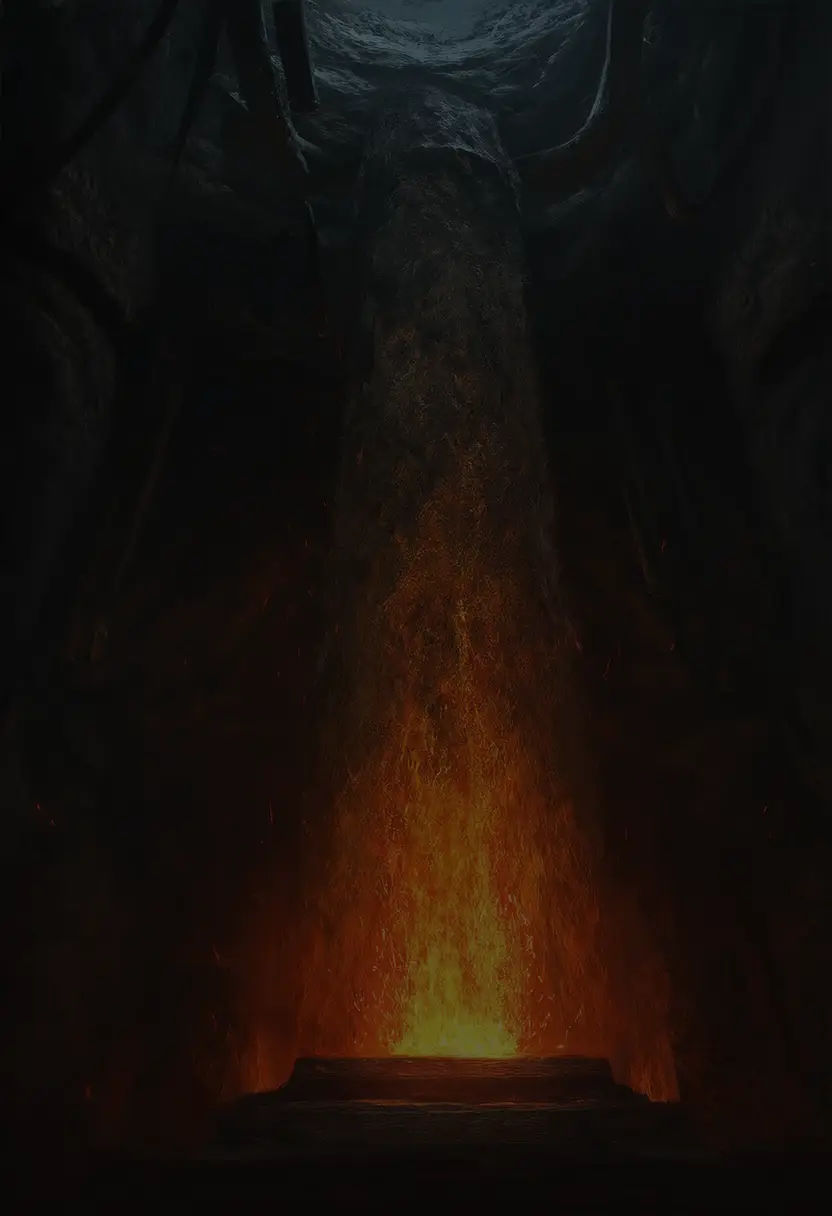
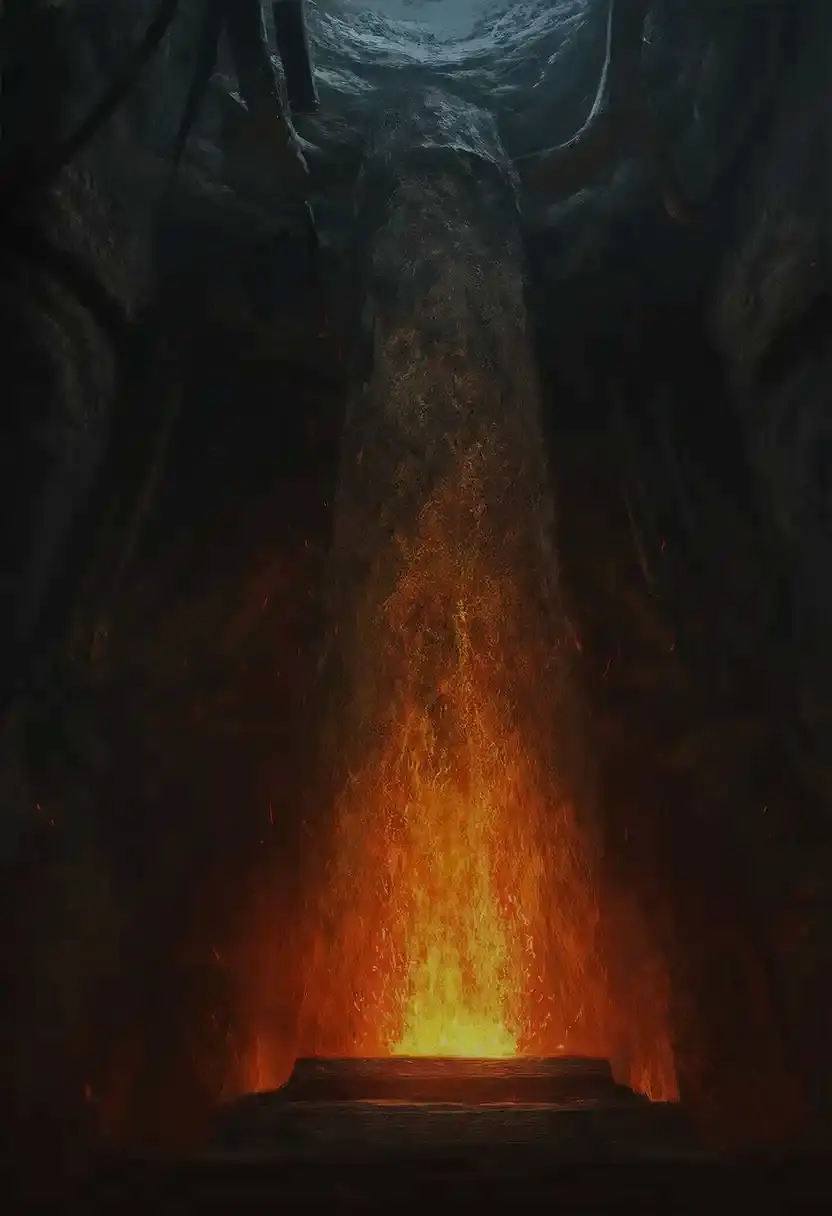
戦闘画面を透かし、二重に暗くしていたのをやめる
実機（Android Chrome）の画面で2点。

## 戦闘画面がフィールドの色で塗りつぶされていた

.battle が不透明なグラデーションで画面いっぱいを覆っていた。
枠を細くするのではなく、透明度で解く（0.34）。場所ごとの色は残る。
併せて、戦闘に入るときにその場所の絵を敷くようにした。

  戦闘画面で絵が見える割合  0% → 66%

残る battle-log は文字がいちばん密なので濃いまま残す。

## 絵と膜で二重に暗くしていた

画像を輝度0.24まで落としたうえに、表示側で膜を38〜82%かけていた。
実機で「ほぼ視認できない」となるのは当然だった。

  画像の狙い  0.24 → 0.42
  膜          0.38〜0.82 → 0.22〜0.58

make_backdrop.py は「落とす」だけだったので、暗い絵はそのまま残っていた。
上下どちらにも揃うようにして、17枚すべてを 0.42 に合わせ直した。

## 画面全体を暗くするのをやめ、パネルだけ濃くする

明るくすると当然、文字が読みにくくなる。全体で両立させようとすると
どちらも中途半端になるので、役割で分けた。

  絵を見せる場所（舞台・余白）… 膜だけ。明るい
  文字を読ませる場所（パネル）… 0.42 → 0.62 に濃く

実測: 17枚すべてで本文 7.1:1 以上・補助 4.9:1 以上（基準 4.5:1）。
パネルの無いところの明るさは平均 0.226 で、以前の 0.025 から大きく上がった。

screen-build だけは鋭い輝点があり上位2%の判定をすり抜けるので、
個別に 0.72 倍している。

検証: test/index.html 578/578。17枚のコントラストと、
戦闘画面での被覆率を実測。

Changed region(s): [[0.25, 0.2812, 0.8438, 0.9375], [0.3125, 0.0, 0.75, 0.1562], [0.3438, 0.0938, 0.375, 0.125]]

diff --git a/styles.css b/styles.css
@@ -2493,12 +2493,15 @@ body.has-backdrop #backdrop { display: block; }
 /* 膜。全体を均す役で、これ単体で読ませるほど濃くはしない。
    濃くしすぎると絵が沈み、何のために置いたのか分からなくなる。 */
 #backdrop::after {
+  /* 実機で「ほぼ視認できない」という報告を受けて薄くした。
+     画像の側も 0.24 → 0.42 に上げてあり、以前は **二重に暗く** していた。
+     この濃さで、パネル越しの本文コントラストは 7.0:1（基準 4.5:1）。 */
   background:
     linear-gradient(180deg,
-      rgba(10, 12, 17, .38) 0%,
-      rgba(10, 12, 17, .52) 34%,
-      rgba(10, 12, 17, .66) 72%,
-      rgba(10, 12, 17, .82) 100%);
+      rgba(10, 12, 17, .22) 0%,
+      rgba(10, 12, 17, .32) 34%,
+      rgba(10, 12, 17, .42) 72%,
+      rgba(10, 12, 17, .58) 100%);
 }
 
 /* ── 背景があるときは、パネルそのものを透かす ──
@@ -2513,12 +2516,16 @@ body.has-backdrop #backdrop { display: block; }
 body.has-backdrop { background: transparent; }
 
 #app.has-backdrop {
-  /* 実測して決めた濃さ。
-     .62 では絵が透けず（パネル面の明るさ 0.035）、置いた意味が無かった。
-     .42 まで下げると 0.050 前後になり、絵の陰影が板越しに分かる。
-     このとき本文とのコントラストは 8:1 前後で、基準の 4.5:1 に余裕がある。 */
-  --bg-panel: rgba(20, 24, 33, .42);
-  --bg-panel-2: rgba(27, 32, 43, .34);
+  /* ── 絵を見せる場所と、文字を読ませる場所を分ける ──
+     画面全体を暗くして両立させようとすると、どちらも中途半端になる。
+     実際、膜を濃くして絵を沈めたら「ほぼ視認できない」と報告を受けた。
+
+     絵は **パネルの無いところ**（舞台や余白）で見せる。膜を薄くしてあるので
+     そこは明るい。文字が乗るパネルだけを濃くして、読みやすさを確保する。
+
+     実測: 最も明るい絵でも、この濃さなら本文 7.7:1 / 補助 5.3:1。 */
+  --bg-panel: rgba(20, 24, 33, .62);
+  --bg-panel-2: rgba(27, 32, 43, .54);
   --line: rgba(96, 110, 134, .5);
   /* 板を透かしたぶん、板の面が明るくなる。補助文字がそのままだと
      コントラストが 3.8:1 まで落ちて基準（4.5:1）を切ったので、

diff --git a/src/ui/battle.js b/src/ui/battle.js
@@ -169,13 +169,47 @@
     return `オート (${st.charges})`;
   }
 
+  /**
+   * フィールドの色を、背景の絵が透ける濃さで返す (§14)。
+   *
+   * 戦闘の器は画面いっぱいに広がるので、不透明のままだと
+   * せっかく敷いた絵が1ミリも見えない。実機で確かめた。
+   * 場所ごとの色は残したいので、色は変えず透明度だけを与える。
+   *
+   * @param {any} f @param {number} a
+   */
+  function fieldWash(f, a) {
+    const rgba = (/** @type {string} */ hex) => {
+      const v = hex.replace('#', '');
+      const n = parseInt(v.length === 3 ? v.split('').map((c) => c + c).join('') : v, 16);
+      return `rgba(${(n >> 16) & 255}, ${(n >> 8) & 255}, ${n & 255}, ${a})`;
+    };
+    return `linear-gradient(160deg, ${rgba(f.bg[0])}, ${rgba(f.bg[1])})`;
+  }
+
+  /**
+   * 戦っている場所の絵を敷く (§1.3)。
+   * 基本画面と同じ器を使い回すので、戦闘に入るときだけ差し替える。
+   */
+  function applyBattleBackdrop() {
+    const layer = document.getElementById('backdrop');
+    if (!layer || !battle || !battle.fieldId) return;
+    RPG.artSource.backdrop(battle.fieldId).then((src) => {
+      if (!src) return;
+      layer.style.setProperty('--backdrop', `url('${src}')`);
+      layer.style.display = 'block';
+      document.body.classList.add('has-backdrop');
+    });
+  }
+
   function render() {
     if (!root || !battle) return;
     const f = battle.field;
     const rules = battle.rules || {};
+    applyBattleBackdrop();
 
     replace(root,
-      h('div.battle', { style: { background: `linear-gradient(160deg, ${f.bg[0]}, ${f.bg[1]})` } },
+      h('div.battle', { style: { background: fieldWash(f, 0.34) } },
         h('div.battle-top',
           // 闘技場は戦闘の器としてフィールドを1つ借りているだけなので、
           // そのまま出すと関係のない地名が並ぶ (§17)。

diff --git a/sw.js b/sw.js
@@ -21,7 +21,7 @@
  * 新しいJSが混ざる。閉じて開き直したときに切り替わるほうが安全。
  */
 
-const CACHE_VERSION = 'v30';
+const CACHE_VERSION = 'v31';
 const CACHE_NAME = `haigin-${CACHE_VERSION}`;
 
 /**

diff --git a/tools/make_backdrop.py b/tools/make_backdrop.py
@@ -33,7 +33,7 @@ OUT_DIR = os.path.join(ROOT, "assets", "bg")
 WIDTH = 832
 QUALITY = 72
 
-# 明るさの上限。上位2%の画素の輝度がここを超えていたら、超えたぶんだけ全体を落とす。
+# 明るさの狙い。上位2%の画素の輝度がここに来るよう、全体を上下させる。
 #
 # ── なぜ画像の側で揃えるのか ──
 # 絵ごとに明るさがばらつくと、そのぶん CSS 側で膜を濃くするしかなくなる。
@@ -42,7 +42,17 @@ QUALITY = 72
 #
 # 実測: 17枚のうち15枚が、この処理なしでは補助文字のコントラストが
 # 3.0〜3.4:1 まで落ちていた（基準は 4.5:1）。
-TARGET_TOP = 0.24
+#
+# ── 落としすぎない ──
+# 最初 0.24 にしたところ、実機で「ほぼ視認できない」という報告を受けた。
+# 表示側の膜と合わせて **二重に暗く** していたため。
+# 膜を 0.40 まで薄くしたうえで、ここを 0.42 に上げてある。
+# このときパネル面の明るさは 0.065、本文とのコントラストは 7.0:1 で、
+# 基準（4.5:1）に余裕がある。
+TARGET_TOP = 0.42
+
+# 明るくする側の上限。暗い絵を無理に持ち上げると、粒状感だけが増える。
+MAX_GAIN = 2.2
 
 # 上位何%の画素で見るか。数点の光源まで抑えると絵が死ぬので、少し余裕を見る。
 TOP_PERCENTILE = 98
@@ -75,7 +85,11 @@ def luminance(px):
 
 
 def normalize(im):
-    """上位 TOP_PERCENTILE% の輝度を見て、明るすぎる絵を落とす倍率を求める。
+    """上位 TOP_PERCENTILE% の輝度が TARGET_TOP に来るよう、上下させる倍率を求める。
+
+    暗い絵は持ち上げ、明るい絵は落とす。**片方向だけだと揃いません。**
+    最初は「落とす」だけにしていたため、暗い絵はそのまま暗く残り、
+    表示側の膜と重なって視認できなくなった。
 
     戻り値: (処理前の輝度, 処理後の輝度, 掛ける倍率)
     """
@@ -83,10 +97,10 @@ def normalize(im):
     vals = sorted(luminance(p) for p in small.getdata())
     idx = min(len(vals) - 1, int(len(vals) * TOP_PERCENTILE / 100))
     top = vals[idx]
-    if top <= TARGET_TOP:
+    if top <= 0:
         return top, top, 1.0
-    factor = TARGET_TOP / top
-    return top, TARGET_TOP, factor
+    factor = min(MAX_GAIN, TARGET_TOP / top)
+    return top, top * factor, factor
 
 
 def main():
@@ -111,8 +125,8 @@ def main():
     im = im.resize((WIDTH, h), Image.LANCZOS)
 
     before, after, factor = normalize(im)
-    if factor < 1.0:
-        im = Image.eval(im, lambda v: int(round(v * factor)))
+    if abs(factor - 1.0) > 0.01:
+        im = Image.eval(im, lambda v: min(255, int(round(v * factor))))
 
     os.makedirs(OUT_DIR, exist_ok=True)
     out = os.path.join(OUT_DIR, key + ".webp")
@@ -120,8 +134,8 @@ def main():
 
     print("置きました: assets/bg/%s.webp  (%d×%d / %d KB)"
           % (key, WIDTH, h, os.path.getsize(out) // 1024))
-    if factor < 1.0:
-        print("  明るさを %.2f 倍に落としました（上位%d%%の輝度 %.3f → %.3f）"
+    if abs(factor - 1.0) > 0.01:
+        print("  明るさを %.2f 倍にしました（上位%d%%の輝度 %.3f → %.3f）"
               % (factor, TOP_PERCENTILE, before, after))
     else:
         print("  明るさはそのまま（上位%d%%の輝度 %.3f）" % (TOP_PERCENTILE, before))
